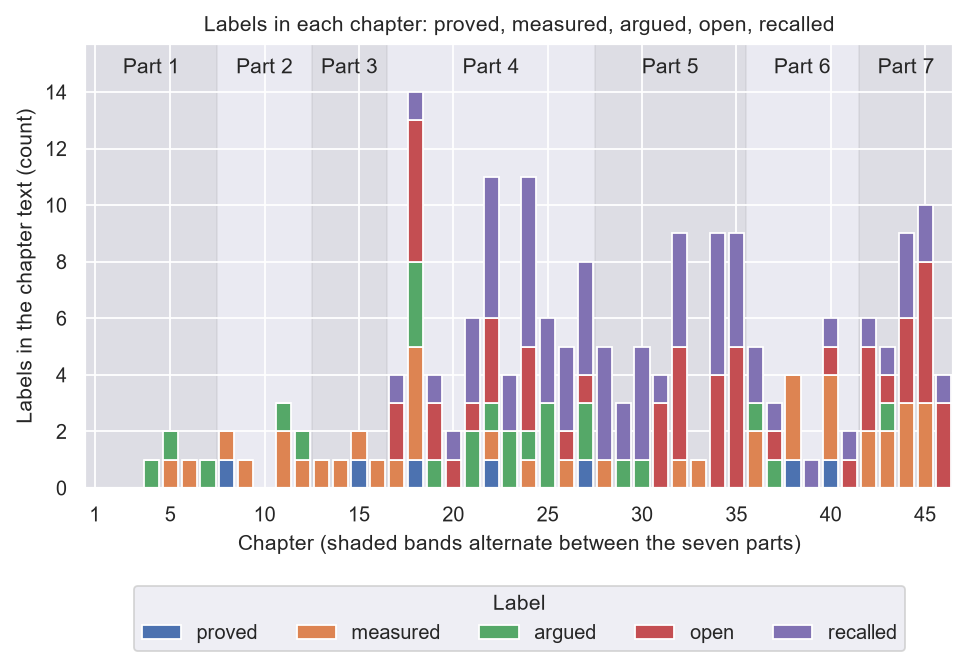
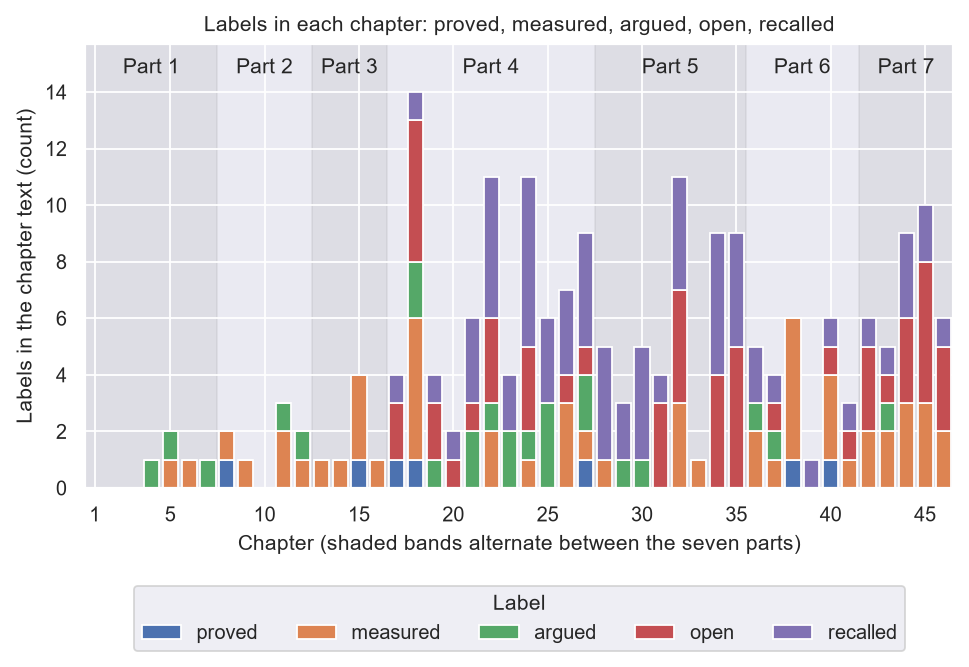
Chapter 47 notebook: audit against the new rules; every notebook from 14 to 47 is now audited

diff --git a/book/47-what-is-not-here.md b/book/47-what-is-not-here.md
@@ -8,9 +8,9 @@
 
 A book of proofs should end by saying where the proofs stop.
 
-This map is **measured** from the text itself: for each chapter 1 to 46 it counts the labels **proved**, **measured**, **argued**, **open** and **recalled**. The counts are of labels in the text, not of theorems.
+This map is **counted from the text**: for each chapter 1 to 46 it counts how often the labels **proved**, **measured**, **argued**, **open** and **recalled** appear. The counts are of labels in the text, not of theorems, and nothing was run or measured to get them.
 
-![Stacked bars, one per chapter 1 to 46, of how often each of the five labels appears, with the seven parts shaded in alternating bands; recalled and open labels dominate and proved labels are rare](figures/47-labels-by-chapter.png)
+![Stacked bars, one per chapter 1 to 46, of how many times each of the five labels appears in that chapter's text, with the seven parts shaded in alternating bands; counts of labels, not of theorems](figures/47-labels-by-chapter.png)
 
 ## The one missing piece
 
@@ -80,7 +80,7 @@ open an issue on the repository.
 
 ## Run it yourself
 
-The notebook counts the five labels in each chapter two ways and checks that the totals agree, then draws the figure above.
+The notebook counts the five labels in each chapter two ways, per line and with one regular expression over all the text, and checks that the totals agree. The totals over chapters 1 to 46 are 7 proved, 54 measured, 24 argued, 53 open and 68 recalled. The check can catch a bug in one of the two counting methods. It cannot catch a wrong idea of what to count, or a label used loosely in the text, because both methods read the same files for the same string.
 
 ```
 jupyter nbconvert --to notebook --execute --inplace experiments/part7/ch47_what_is_not_here.ipynb

diff --git a/book/proposals/proposal-20261117.md b/book/proposals/proposal-20261117.md
@@ -4574,17 +4574,14 @@ Chapters 16, 20, 39 and 44 were sent back to their helpers with the list. Chapte
 false sentence (the bound is not exact for two choices). `experiments/WRITING.md` now has
 three rules against these faults.
 
-Done after the review, the same day: the helpers of chapters 14, 15, 17 to 38, 40 to 43, 45 and 46
-audited their own notebooks against the three rules. Checks that hold by construction are
+Done after the review, the same day: the helpers of every other chapter from 14 to 47
+audited their own notebooks against the three rules, one helper at a time. Checks that hold by construction are
 now printed as such and not counted, numbers from a formula are called "from the formula",
 and every cited number is printed. The two findings for chapter 28 and the three for
 chapter 34 are fixed. This was a self-audit, not a second reader.
 
 Still owed:
 
-- **Not yet audited:** the notebook of chapter 47 (in progress)
-  and 47. Expect the same faults. Send each helper the same message, or use one reviewer per
-  part with the six questions.
 - **A second reader** for the notebooks that were only self-audited, starting with chapters
   17 to 19 and 22, which later chapters lean on.
 - The `[PASS]` counts quoted in commit messages before the audit are out of date. The
